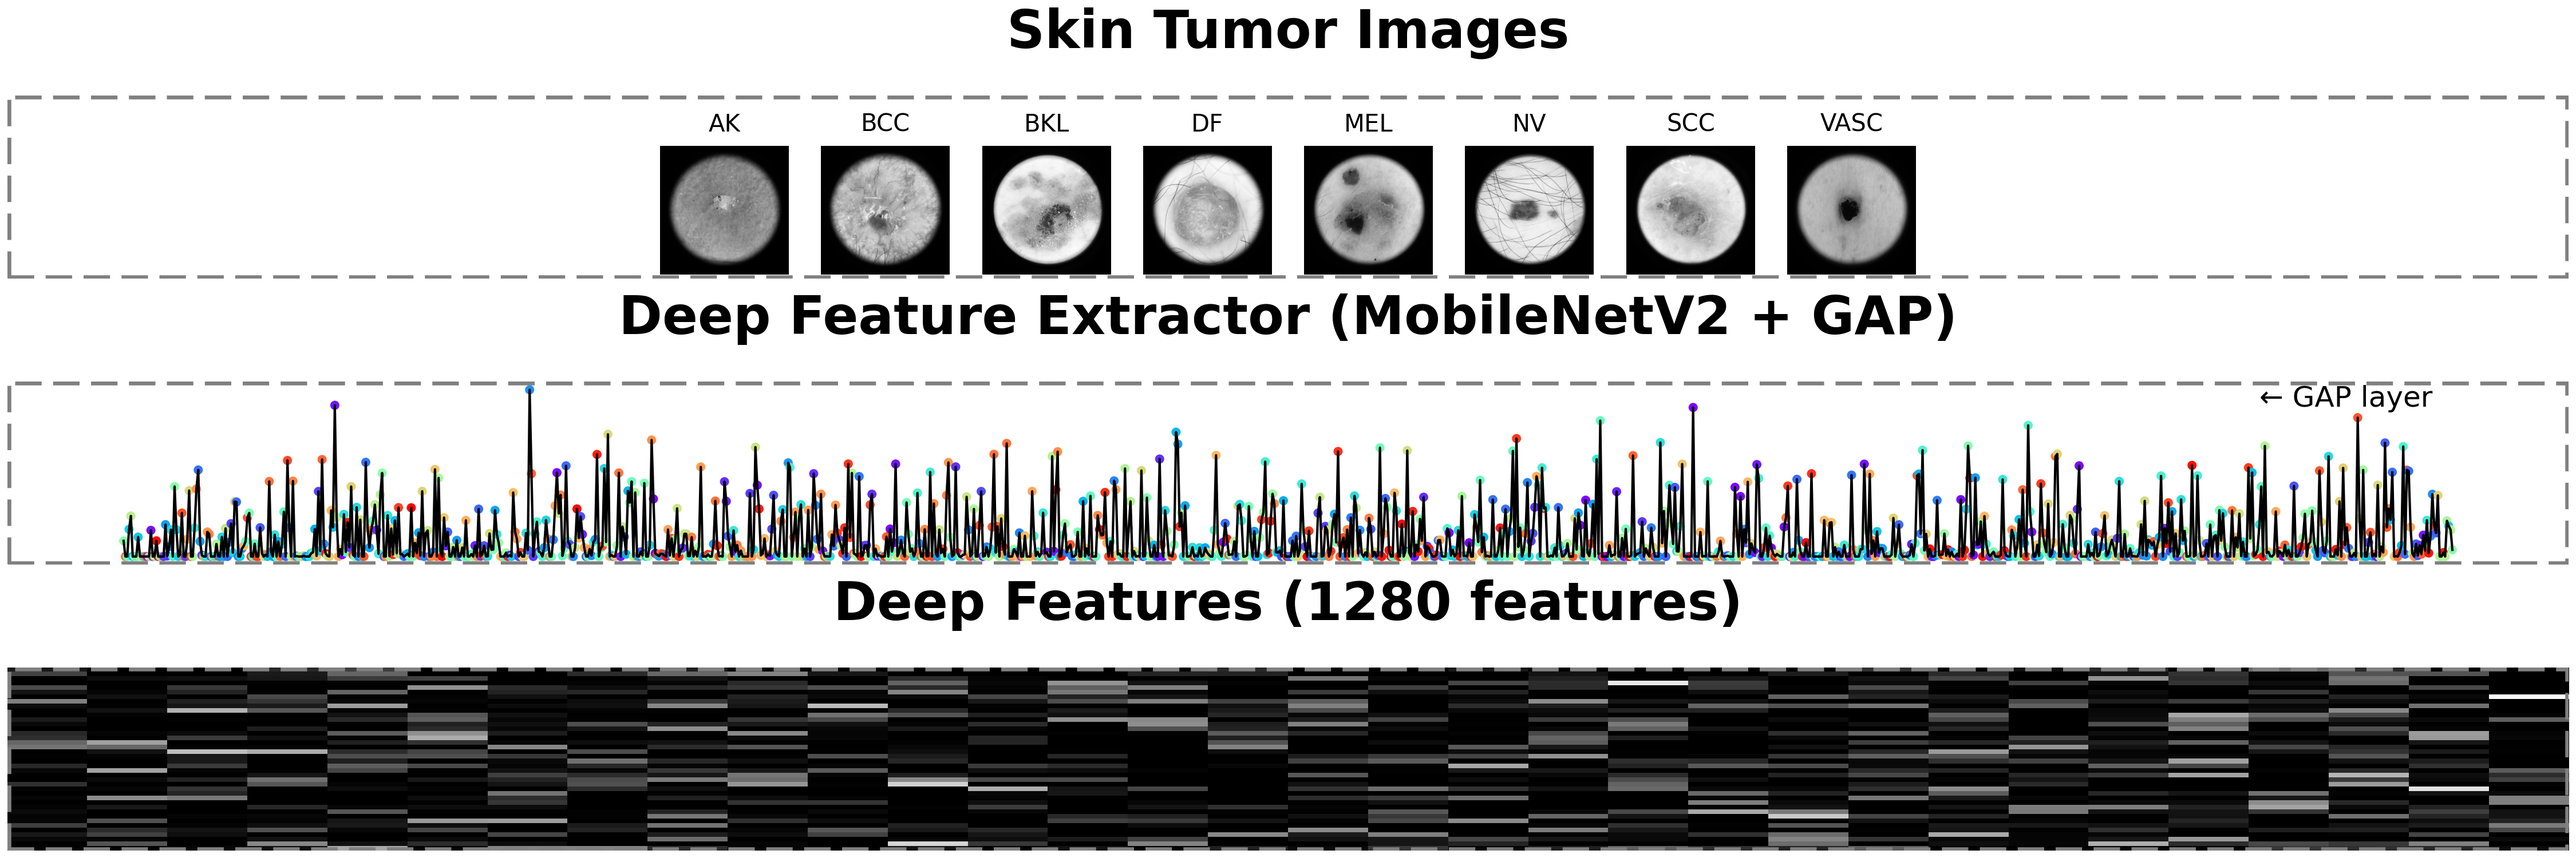
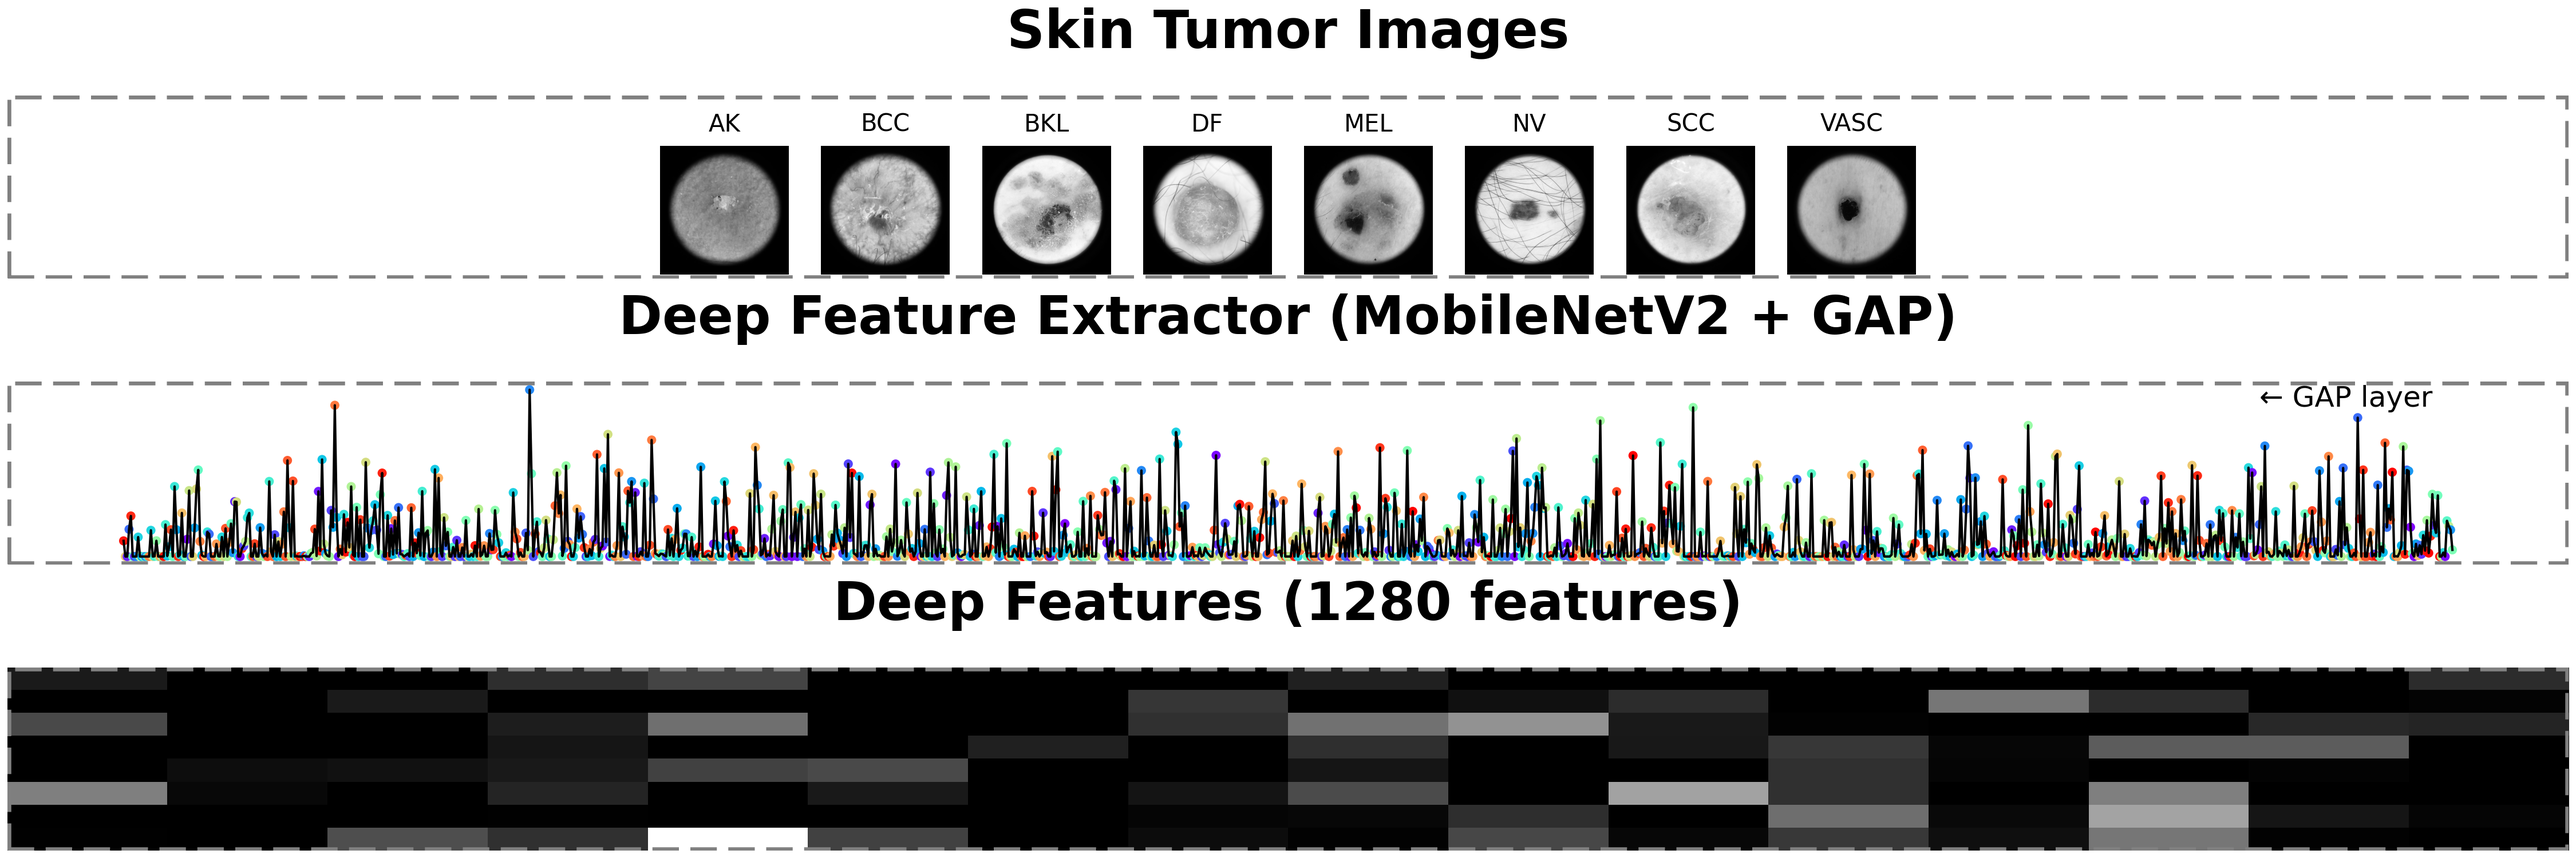
update bottom section

diff --git a/ML_Model/model_graph.py b/ML_Model/model_graph.py
@@ -35,15 +35,13 @@ gs = gridspec.GridSpec(3, 1, figure=fig, height_ratios=[1, 1, 1])
 
 ax_top = fig.add_subplot(gs[0])
 ax_top.axis('off')
-
 rect_top = plt.Rectangle((0, 0), 1, 1, fill=False, edgecolor='gray', linestyle='--', linewidth=3, transform=ax_top.transAxes)
 ax_top.add_patch(rect_top)
-
 ax_top.set_title('Skin Tumor Images', fontsize=22, weight='bold', pad=20)
 
 for idx, img_path in enumerate(selected_images):
     img = mpimg.imread(img_path)
-    left = 0.2 + (((idx/2)+0.05) / len(selected_images))
+    left = 0.2 + (((idx/2) + 0.05) / len(selected_images))
     ax_img = fig.add_axes([left, 0.68, 0.15, 0.15])  
     ax_img.imshow(img, cmap='gray')
     ax_img.axis('off')
@@ -51,10 +49,8 @@ for idx, img_path in enumerate(selected_images):
 
 ax_middle = fig.add_subplot(gs[1])
 ax_middle.set_title('Deep Feature Extractor (MobileNetV2 + GAP)', fontsize=22, weight='bold', pad=20)
-
 rect_middle = plt.Rectangle((0, 0), 1, 1, fill=False, edgecolor='gray', linestyle='--', linewidth=3, transform=ax_middle.transAxes)
 ax_middle.add_patch(rect_middle)
-
 ax_middle.plot(real_features, color='black', lw=1)
 ax_middle.scatter(range(len(real_features)), real_features, c=np.random.rand(len(real_features)), cmap='rainbow', s=8)
 ax_middle.text(len(real_features)-12, np.max(real_features)*0.9, '← GAP layer', fontsize=12, ha='right')
@@ -62,12 +58,28 @@ ax_middle.axis('off')
 
 ax_bottom = fig.add_subplot(gs[2])
 ax_bottom.set_title('Deep Features (1280 features)', fontsize=22, weight='bold', pad=20)
-
 rect_bottom = plt.Rectangle((0, 0), 1, 1, fill=False, edgecolor='gray', linestyle='--', linewidth=3, transform=ax_bottom.transAxes)
 ax_bottom.add_patch(rect_bottom)
 
-feature_map_real = real_features.reshape(40, 32) 
-ax_bottom.imshow(feature_map_real, cmap='gray', aspect='auto')
+real_features_norm = (real_features - np.min(real_features)) / (np.max(real_features) - np.min(real_features))
+
+feature_map_real = real_features_norm.reshape(32, 40)
+
+patch_size = 4  
+montage_rows = 8
+montage_cols = 16
+
+montage = np.zeros((montage_rows * patch_size, montage_cols * patch_size))
+
+idx = 0
+for i in range(montage_rows):
+    for j in range(montage_cols):
+        if idx < 32 * 40:
+            patch = np.ones((patch_size, patch_size)) * feature_map_real.flatten()[idx]
+            montage[i*patch_size:(i+1)*patch_size, j*patch_size:(j+1)*patch_size] = patch
+            idx += 1
+
+ax_bottom.imshow(montage, cmap='gray', aspect='auto')
 ax_bottom.axis('off')
 
 plt.savefig(output_path, dpi=300)
